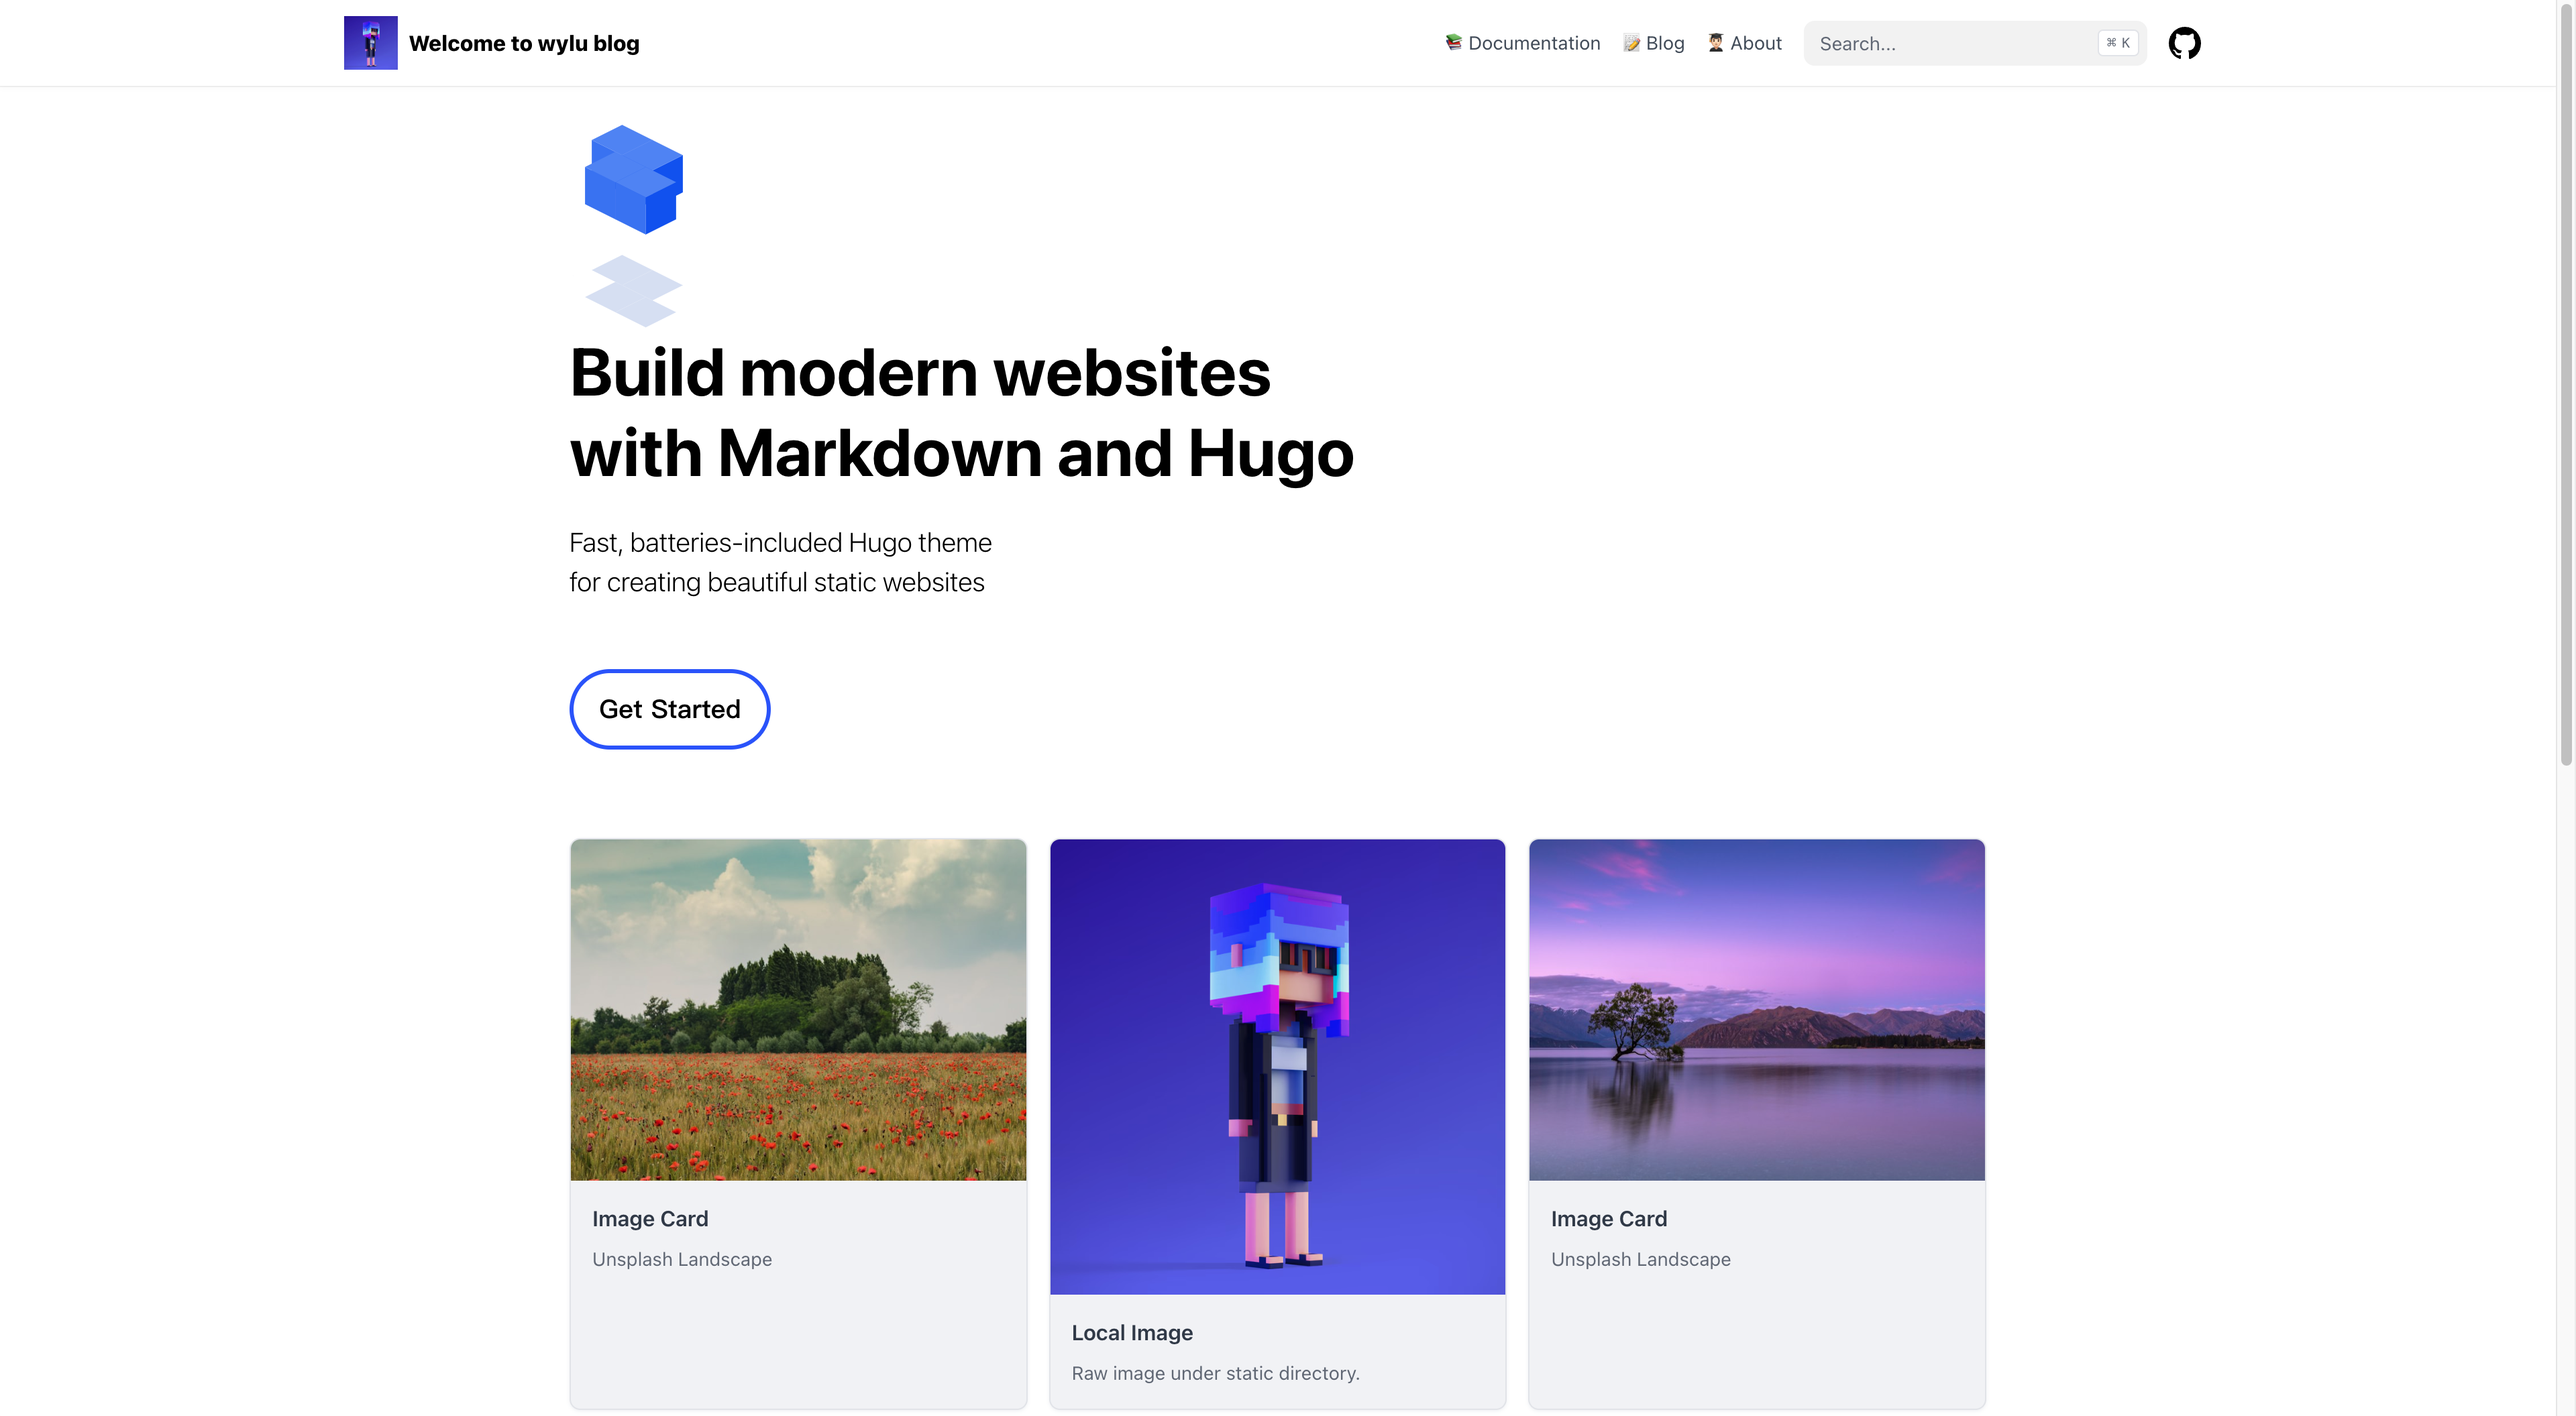
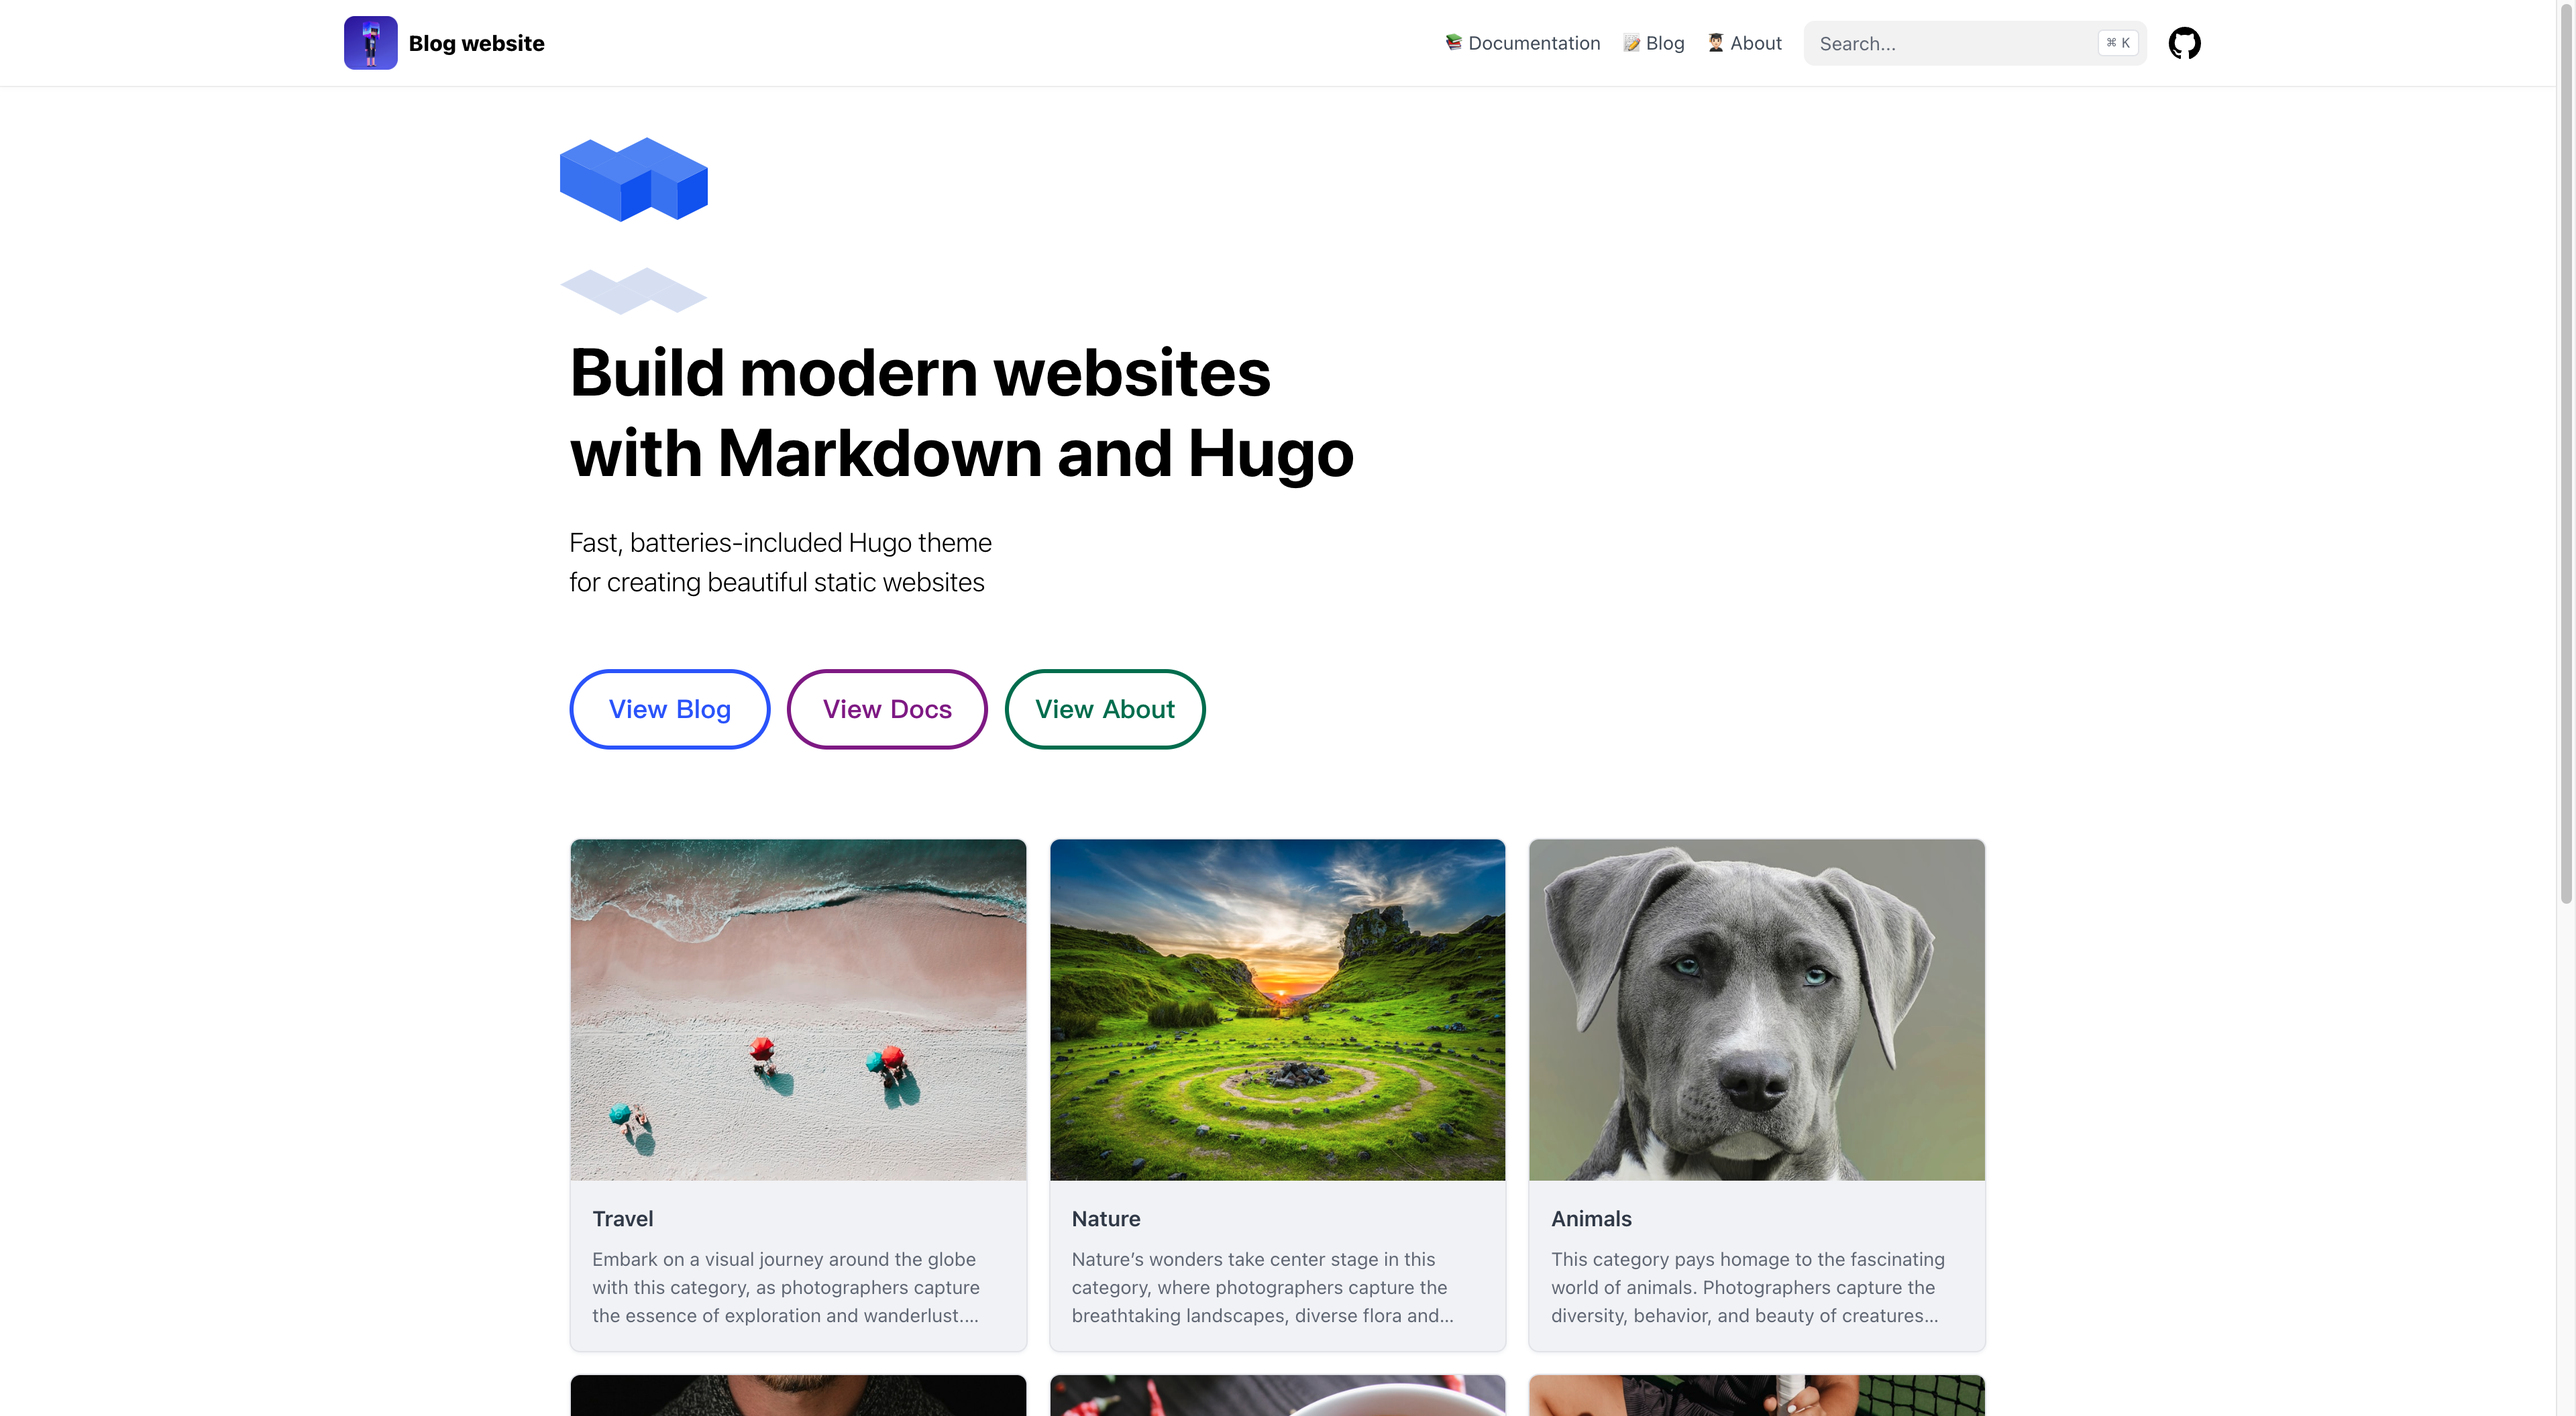
chore: update index

diff --git a/content/_index.md b/content/_index.md
@@ -277,12 +277,12 @@ for creating beautiful static websites<br></font>
 </div>
 
 {{< cards >}}
-{{< card link="/" title="Landscape" image="https://source.unsplash.com/featured/800x600?landscape" subtitle="Unsplash Landscape" >}}
+{{< card link="/" title="Travel" image="https://source.unsplash.com/featured/800x600?travel" subtitle="Embark on a visual journey around the globe with this category, as photographers capture the essence of exploration and wanderlust. Through vibrant street scenes and immersive cultural experiences, the Travel category showcases the beauty and diversity of destinations near and far." >}}
 {{< card link="/" title="Nature" image="https://source.unsplash.com/featured/800x600?nature" subtitle="Nature's wonders take center stage in this category, where photographers capture the breathtaking landscapes, diverse flora and fauna, and mesmerizing natural phenomena that adorn our planet. From grand vistas to macro shots, these images transport viewers into the heart of the great outdoors." >}}
-{{< card link="/" title="Animals" image="https://source.unsplash.com/featured/800x600?animals" subtitle="Unsplash Animals" >}}
-{{< card link="/" title="People" image="https://source.unsplash.com/featured/800x600?people" subtitle="Unsplash People" >}}
-{{< card link="/" title="Food" image="https://source.unsplash.com/featured/800x600?food" subtitle="Unsplash Food" >}}
-{{< card link="/" title="Drink" image="https://source.unsplash.com/featured/800x600?drink" subtitle="Unsplash Drink" >}}
+{{< card link="/" title="Animals" image="https://source.unsplash.com/featured/800x600?animals" subtitle="This category pays homage to the fascinating world of animals. Photographers capture the diversity, behavior, and beauty of creatures from across the globe, bringing the animal kingdom closer to the viewer's heart and lens." >}}
+{{< card link="/" title="People" image="https://source.unsplash.com/featured/800x600?people" subtitle="People are the focal point of this category, where photographers skillfully depict the human experience. From candid moments to formal portraits, this category showcases the myriad emotions, cultures, and stories that define us." >}}
+{{< card link="/" title="Food" image="https://source.unsplash.com/featured/800x600?food" subtitle="From simple home-cooked dinners at home, to tasting new dishes while traveling — food connects us all. This category examines the world of food photography, with shots of everything from summer picnics in the park to decadent deserts." >}}
+{{< card link="/" title="Sports" image="https://source.unsplash.com/featured/800x600?sports" subtitle="From adrenaline-fueled moments of victory to the camaraderie among athletes, this category celebrates the captivating world of sports photography. Showcasing both intensity and emotion, photographers freeze-frame the essence of competition, highlighting the dedication and spirit that define sports worldwide." >}}
 {{< /cards >}}
 
 <br>
